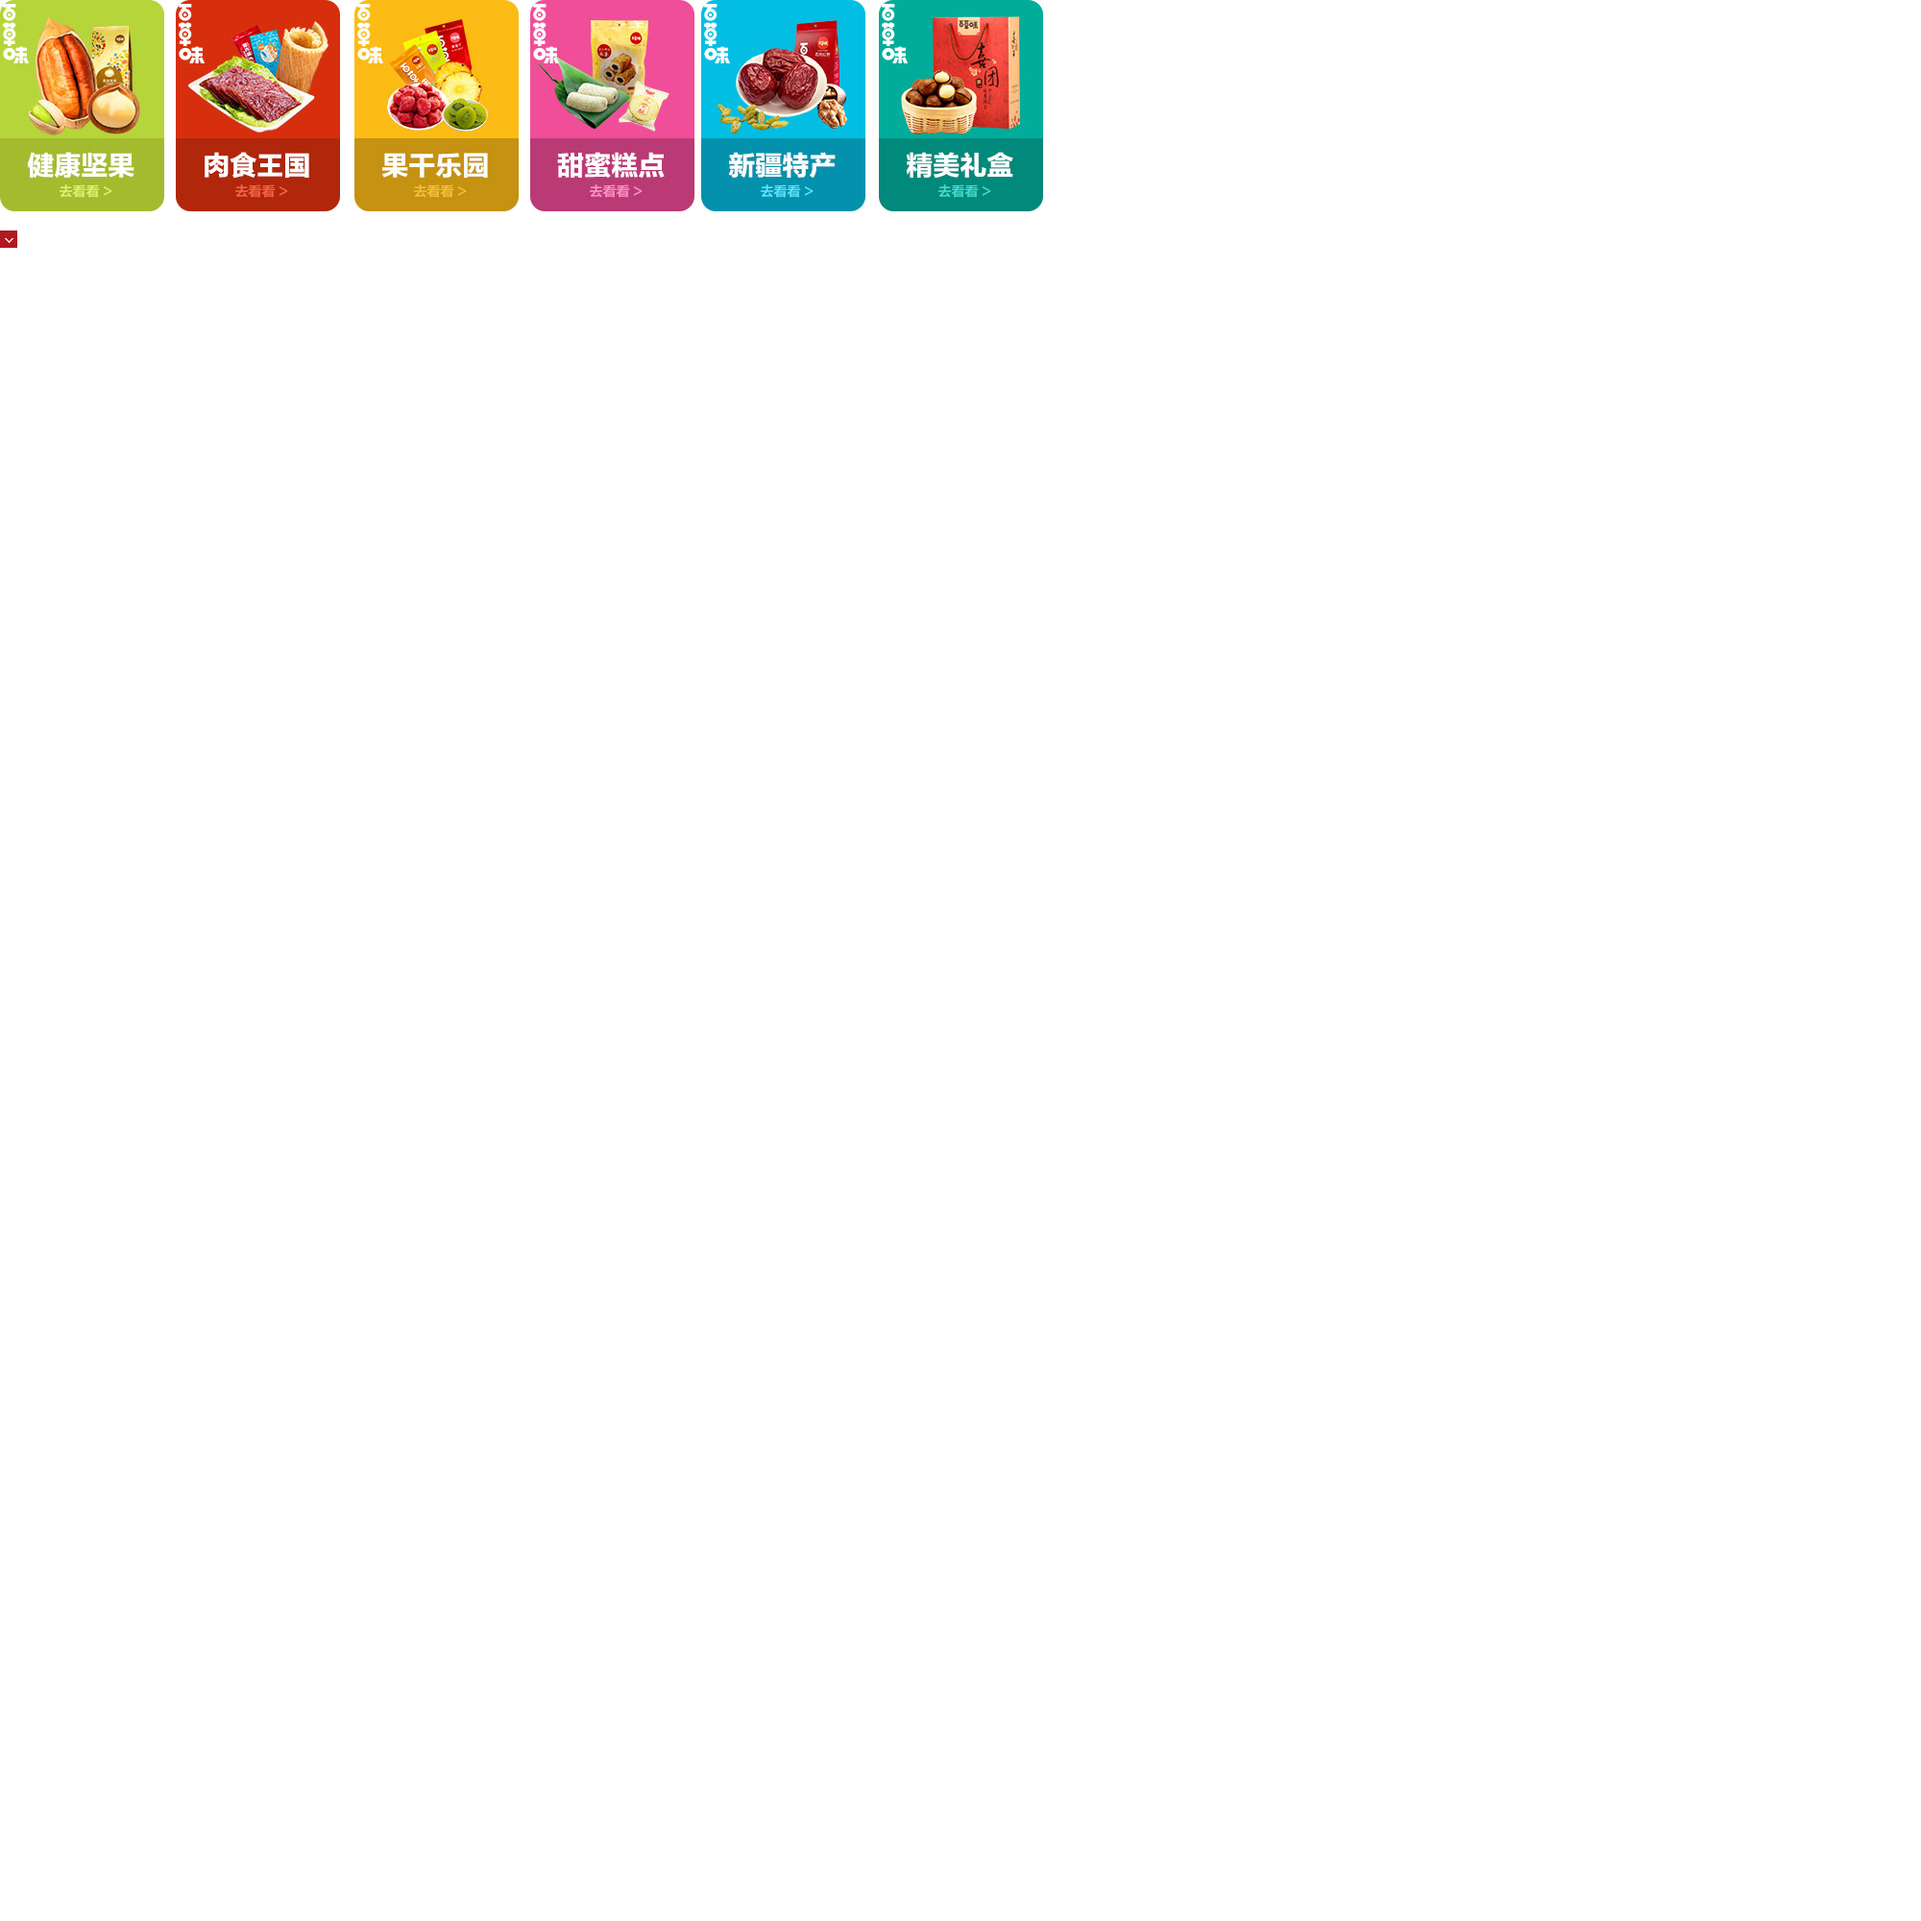
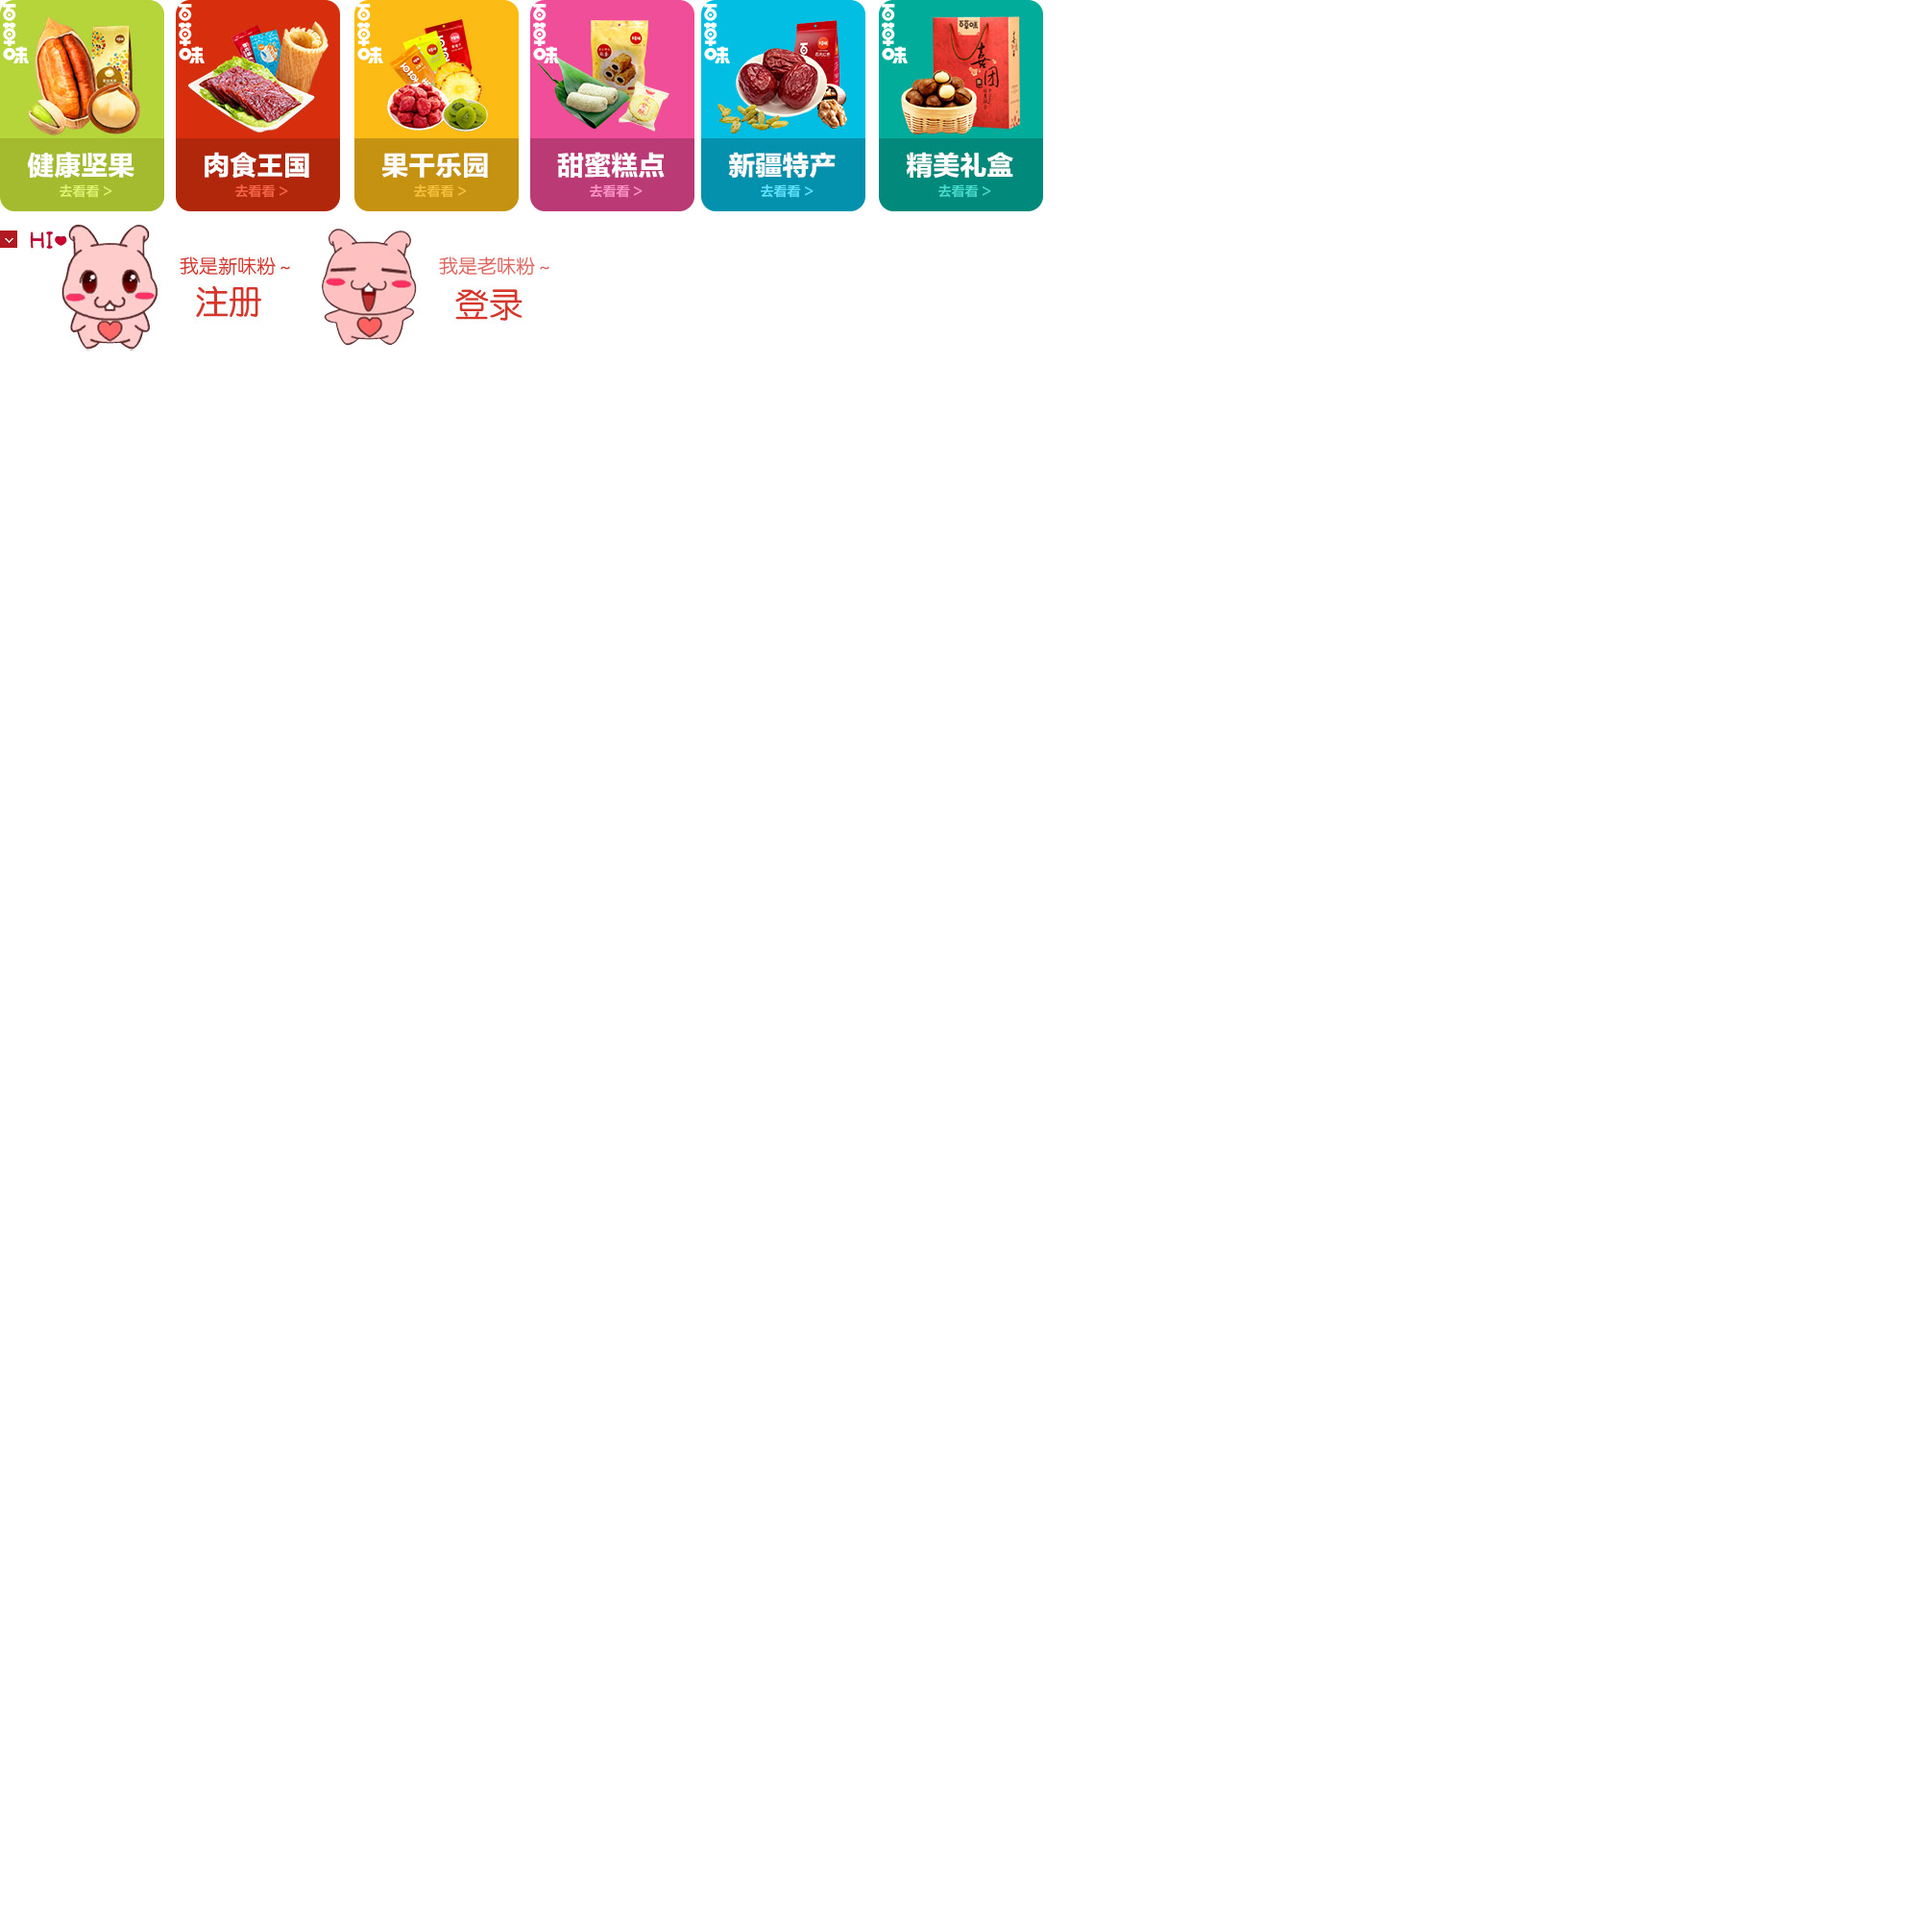
添加登录页与相关材料

Changed region(s): [[0.031, 0.124, 0.279, 0.186]]

diff --git a/src/html/register.html b/src/html/register.html
@@ -2,17 +2,17 @@
 <html lang="en">
 <head>
 	<meta charset="UTF-8">
-	<title>百草味</title>
+	<title>注册</title>
 	<link rel="stylesheet" href="../css/base.css">
 	<link rel="stylesheet" href="../css/header.css">
 	<link rel="stylesheet" href="../css/footer.css">
-	<!-- <link rel="stylesheet" type="text/css" href="../lib/bootstrap/css/bootstrap.min.css">
+<!-- 	<link rel="stylesheet" type="text/css" href="../lib/bootstrap/css/bootstrap.min.css">
 	<link rel="stylesheet" type="text/css" href="../lib/jquery-confirm/jquery-confirm.css"> -->
 
 	<script src="../js/jquery-3.1.1.js"></script>
-	<script type="text/javascript" src="../lib/jquery-confirm/jquery-confirm.js"></script>
+<!-- 	<script type="text/javascript" src="../lib/jquery-confirm/jquery-confirm.js"></script> -->
 	<style type="text/css" media="screen">
-		.register{width: 45%; margin: 50px auto;
+		.register{width: 45%; margin: 30px auto;
 			border:3px solid #D4362A;padding: 70px;}
 		.register form>div{margin:20px 0;
 		}
@@ -25,7 +25,40 @@
 	<script>
 		$(function(){
 			$('#header').load('header-s.html');
-			$('#footer').load('footer-s.html');
+			$('#footer').load('footer-s.html',function(){
+					$('#submit').click(function(){
+						// if(!/^\w{6,18}$/.test($('#username').val())){
+						// 	alert('你输入的用户不合法');
+						// 	return false;
+						// }
+						// if(!/^1[34578]\d{9}$/.test($('#phone').val())){
+						// 	alert('手机号不合法');
+						// 	return false;
+						// }
+						// if(!/^[\w\-\.]+@[a-z\d\-]+(\.[a-z]+){1,2}$/.test($('#email').val())){
+						// 	alert('你输入的邮箱不合法');
+						// 	return false;
+						// }
+						// if( $('#password').val()!=$('#pwd').val()){
+						// 	alert('密码不一致');
+						// 	return false;
+						// }
+
+						$.post('../php/register.php',{
+							username: $('#username').val(),
+							password: $('#password').val(),
+							phone: $('#phone').val(),
+							email: $('#email').val()
+						}, function(response){
+							var $obj = eval('(' + response + ')');
+							if($obj.state){
+								alert('注册成功！');
+							} else {
+								alert($obj.message);
+							}
+						})				
+					})
+			});
 		});
 	</script>
 </head>
@@ -61,24 +94,5 @@
 	    </form>
   	</div>
 	<footer id="footer"></footer>
-	<script type="text/javascript">
-		$(function(){
-			$('#submit').click(function(){
-				$.post('../php/register.php',{
-					username: $('#username').val(),
-					password: $('#password').val(),
-					phone: $('#phone').val(),
-					email: $('#email').val()
-				}, function(response){
-					var $obj = eval('(' + response + ')');
-					if($obj.state){
-						$.alert('注册成功！');
-					} else {
-						$.alert($obj.message);
-					}
-				})				
-			})
-		})
-	</script>
 </body>
 </html>

diff --git a/src/html/login.html b/src/html/login.html
@@ -1,0 +1,76 @@
+<!DOCTYPE html>
+<html lang="en">
+<head>
+	<meta charset="UTF-8">
+	<title>登录</title>
+	<link rel="stylesheet" href="../css/base.css">
+	<link rel="stylesheet" href="../css/header.css">
+	<link rel="stylesheet" href="../css/footer.css">
+	<link rel="stylesheet" href="../css/login.css">
+	<script src="../js/jquery-3.1.1.js"></script>
+	<script>
+		$(function(){
+			$('#header').load('header-s.html');
+			$('#footer').load('footer-s.html',function(){
+				$('.lbtn').click(function(){
+					$.post('../php/login.php',{
+        			  username: $('#username').val(),
+        		  	  password: $('#password').val()
+        			}, function(response){
+         			 var $obj = eval('(' + response + ')');
+         		 	 if($obj.state){
+           			 	 // window.location.href = 'index.php';
+           			 	 $('.pic').hide();
+           			 	 $('.input').hide();
+           			 	 $('.suc').show();
+          			 } else {
+          		 		 alert($obj.message);
+         	    	 }	
+					})
+      		      }) 
+			});
+		});
+	</script>
+</head>
+<body>
+	<header id="header"></header>
+	<div class="login">
+		<div class="pic">
+			<div class="left"><a href="register.html"></a></div>
+			<div class="right"><a href=""></a></div>
+		</div>
+		<div class="msg">
+			<div class="suc">
+				<p>您已登录成功！</p>
+				<button class="vbtn">会员中心</button>
+			</div>
+			<div class="input">
+				<div class="username">
+					<div>
+					<label for="username">用户名：</label>
+					</div>
+					<input type="text" id="username" name="username">
+				</div>
+				<div class="pwd">
+					<div>
+						<label for="password">密码:</label>
+					</div>
+					<input type="password" id="password" name="password">
+				</div>
+				<div class="lbtn">
+					<button id="lbtn">立即登录</button>
+				</div>
+				<div class="cok">
+					<input type="checkbox" checked>两周内自动登录
+				</div>
+				<div class="rbtn">
+					<button id="register">注册成为百草味新味粉</button>
+				</div>
+			</div>
+		</div>
+	</div>
+
+	<footer id="footer"></footer>
+	
+</body>
+</html>

diff --git a/src/css/login.css b/src/css/login.css
@@ -1,0 +1,86 @@
+.login{
+		width: 700px;
+		margin: 20px auto;
+}
+.login .pic{
+		overflow: hidden;
+}
+.login .pic .left a{
+		display:inline-block;
+		height: 139px;
+		width: 286px;
+		background:url("img/css.fw.png") no-repeat -29px -231px;
+		float: left;
+		margin-left: 60px;
+}
+.login .pic .right a{
+		display:inline-block;
+		height: 139px;
+		width: 253px;
+		background:url("img/css.fw.png") no-repeat -328px -231px;
+		float: left;
+		margin-left: 30px
+}
+.login .input{
+	width: 100%;
+	border: 3px solid #D73A2E;
+	border-radius: 10px;
+}
+.login .input .username,.pwd,.lbtn,.cok,.rbtn{
+	margin: 10px 200px;
+}
+.login .input .username,.pwd,.cok{
+	font-size: 12px;
+
+}
+.login .input .username input{
+	width: 300px;
+	height: 32px;
+}
+.login .input .pwd input{
+	width: 300px;
+	height: 32px;
+}
+.login .input .lbtn button{
+	width: 300px;
+	height: 32px;
+	color: #fff;
+	background-color: #D6362A;
+	border:1px solid #D6362A;
+	border-radius: 10px;
+	cursor: pointer;
+	outline:0;
+}
+.login .input .rbtn button{
+	width: 300px;
+	height: 32px;
+	color: #D6362A;
+	background-color: #fff;
+	border:2px solid #D6362A;
+	border-radius: 10px;
+	cursor: pointer;
+	outline:0;
+}
+.login .msg .suc{
+	width: 100%;
+	border: 3px solid #D73A2E;
+	border-radius: 10px;
+	text-align: center;
+	height: 200px;
+	display: none;
+}
+.login .msg .suc p{
+	font-size: 32px;
+	color: #D73A2E;
+	line-height: 100px;
+}
+.login .msg .suc .vbtn{
+	width: 300px;
+	border-radius: 10px;
+	cursor: pointer;
+	outline:0;
+	height: 32px;
+	color: #fff;
+	background-color: #D6362A;
+	border:2px solid #D6362A;
+}

diff --git a/src/html/header-s.html b/src/html/header-s.html
@@ -16,7 +16,7 @@
 		<img src="../img/logo.png" alt="">
 		<div class="search">
 			<input type="text" class="search_input" placeholder="百草味">
-			<input type="submit" value="搜索" class="search_btn">
+			<input type="submit" value="搜索" class="searchbtn">
 		</div>
 	</div>
 	<div class="nav">

diff --git a/src/html/header.html b/src/html/header.html
@@ -16,7 +16,7 @@
 		<img src="img/logo.png" alt="">
 		<div class="search">
 			<input type="text" class="search_input" placeholder="百草味">
-			<input type="submit" value="搜索" class="search_btn">
+			<input type="submit" value="搜索" class="searchbtn">
 		</div>
 	</div>
 	<div class="nav">

diff --git a/src/css/header.css b/src/css/header.css
@@ -50,10 +50,11 @@
 	height: 36px;
 	color: #666;
 	width: 420px;
+	line-height: 110px;
 	border-radius: 18px 0 0 18px;
 	padding-left: 15px;
 }
-#head .logo .search_btn{
+#head .logo .searchbtn{
 	height: 36px;
 	font-size: 14px;
 	color: #fff;

diff --git a/src/css/base.css b/src/css/base.css
@@ -23,6 +23,3 @@ a{
  }
 *{
 	box-sizing:border-box;}
-a:hover{
-	text-decoration:underline;
-}

diff --git a/src/php/login.php b/src/php/login.php
@@ -8,7 +8,7 @@
 	// echo json_encode($result, JSON_UNESCAPED_UNICODE);
 	//判断当前 email 是否已存在数据表中
 	// $sql = format("select * from gz1610 where email='{0}' and password='{1}'", $_POST["email"], $_POST["password"]);
-	$sql = "select * from username where email='" .  $_POST["email"] . "' and password='" . $_POST["password"] . "'";
+	$sql = "select * from username where username='" .  $_POST["username"] . "' and password='" . $_POST["password"] . "'";
 	$result = query($sql);
 	//当前 email 不存在，执行插入操作
 	if(count($result) < 1){
@@ -16,6 +16,6 @@
 	} else {
 		echo "{state: true, message: '登录成功！！！'}";
 		session_start();
-		$_SESSION["login_email"] = $result[0]->email;		
+		$_SESSION["login_username"] = $result[0]->username;		
 	}
 ?>

diff --git a/src/php/register.php b/src/php/register.php
@@ -9,11 +9,9 @@
 	$usernamecheck = "select * from username where `username` ='$username'";
 	$result = query($usernamecheck);
 	//当前 username 不存在，执行插入操作
-	echo "$username,$password";
 	if(count($result) < 1){
 
 		$sql = "insert into username(`username`, `password`,`phone`,`email`) values('$username', '$password','$phone','$email')";
-		// echo $sql;
 		$excute = excute($sql);
 		if($excute){
 			echo "{state: true}";
